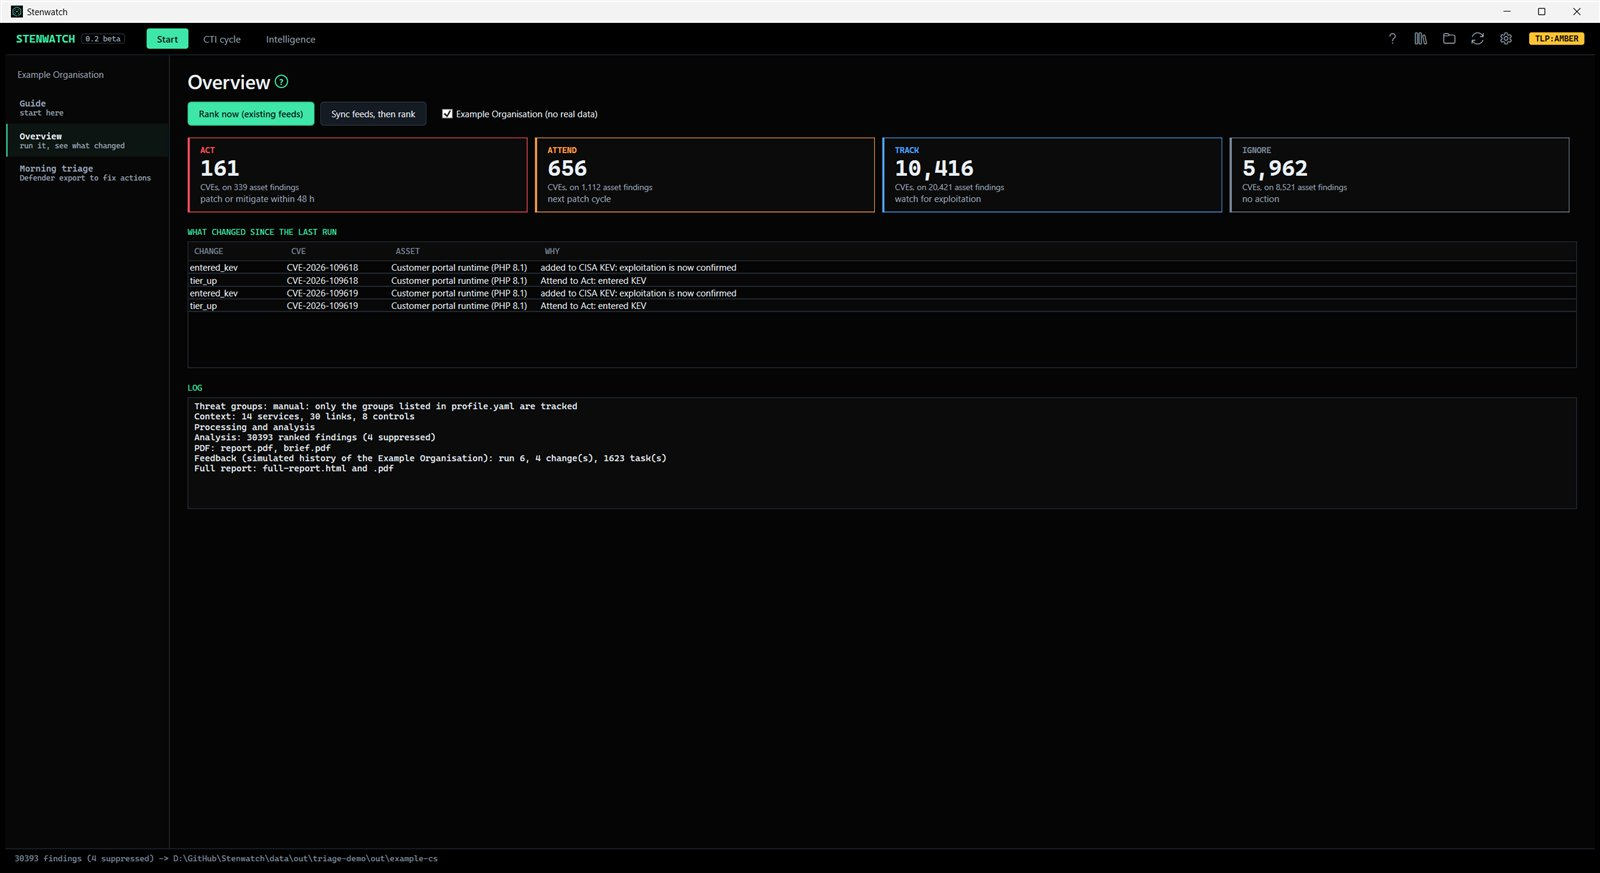
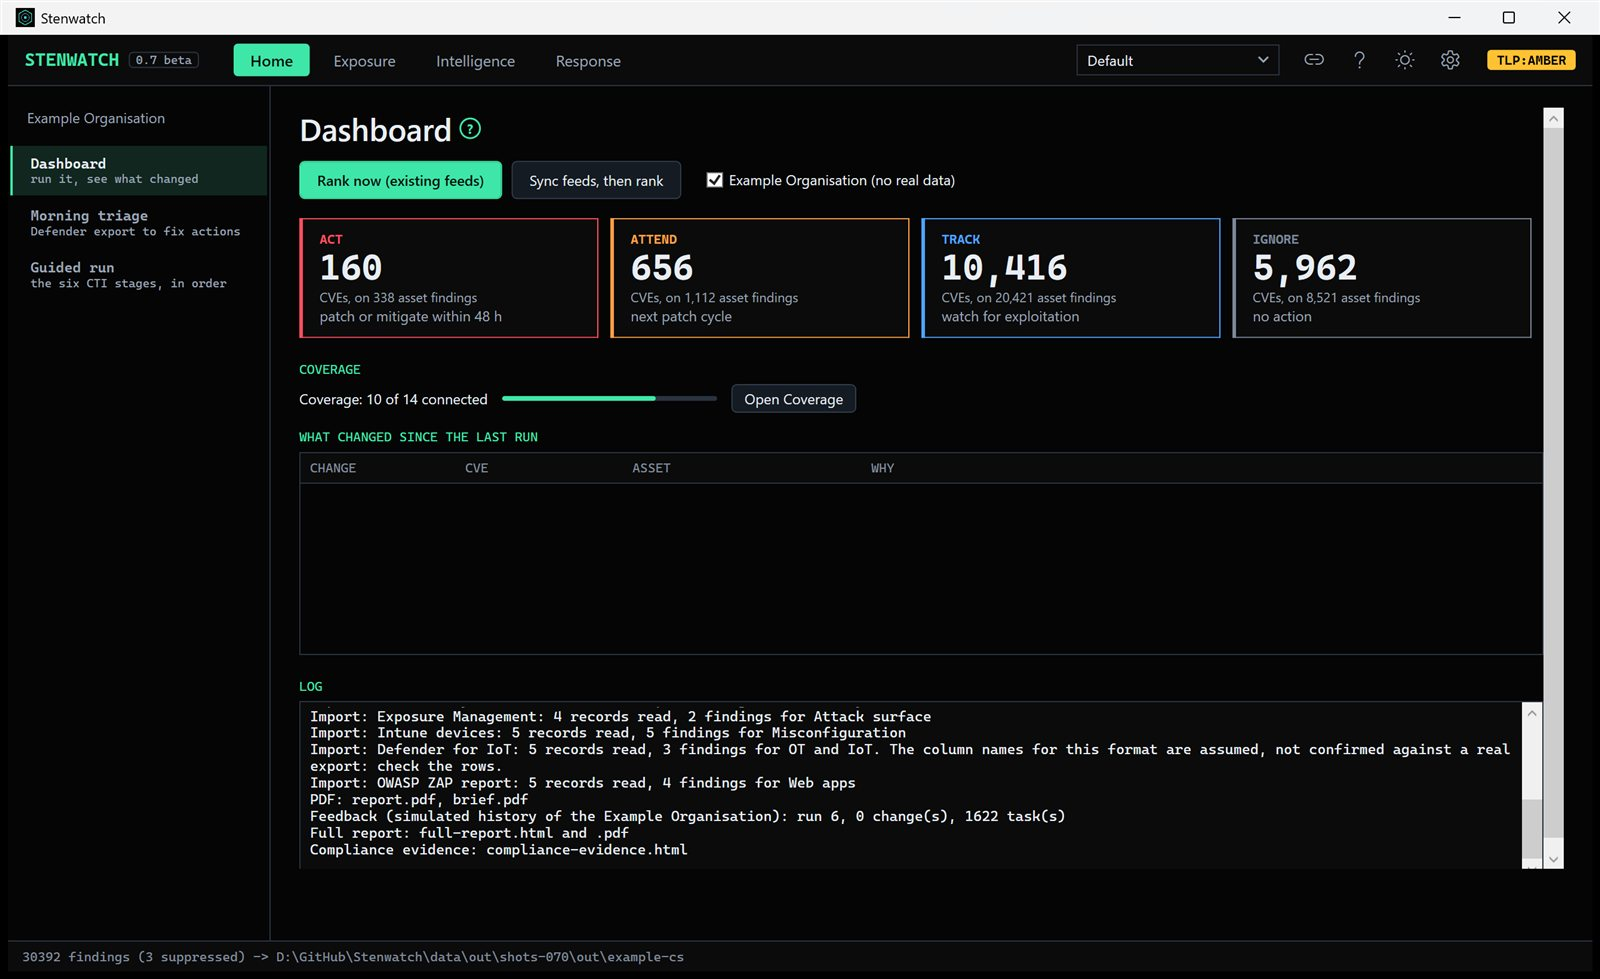
Release prep 0.7.0 beta: version bump, organisation box as a plain list with New organisation, installer signs when a certificate is set, screenshots retaken, README line for several organisations

diff --git a/src/Stenwatch.App/MainWindow.xaml b/src/Stenwatch.App/MainWindow.xaml
@@ -11,9 +11,11 @@
         <!-- toolbar: wordmark, the four areas, icon actions (Integrations, Guide, Theme, Settings), TLP -->
         <Border Grid.ColumnSpan="2" Background="{DynamicResource Card}" BorderBrush="{DynamicResource Line}" BorderThickness="0,0,0,1"><DockPanel Margin="14,6">
             <StackPanel Orientation="Horizontal" DockPanel.Dock="Right" VerticalAlignment="Center">
-                <!-- MSP mode: the open organisation; type a new name and press Enter to add one -->
-                <ComboBox x:Name="OrgPick" IsEditable="True" Width="170" Margin="0,0,10,0" VerticalAlignment="Center" SelectionChanged="OrgPicked" KeyDown="OrgKey"
-                          ToolTip="Organisation: pick one, or type a new name and press Enter. Each has its own data folder." AutomationProperties.Name="Organisation"/>
+                <!-- MSP mode: the open organisation; "New organisation..." shows OrgNew, type a name and press Enter -->
+                <TextBox x:Name="OrgNew" Width="150" Margin="0,0,6,0" VerticalAlignment="Center" Visibility="Collapsed" KeyDown="OrgKey"
+                         ToolTip="New organisation: type a name, Enter to open it, Esc to cancel" AutomationProperties.Name="New organisation name"/>
+                <ComboBox x:Name="OrgPick" Width="170" Margin="0,0,10,0" VerticalAlignment="Center" SelectionChanged="OrgPicked"
+                          ToolTip="Organisation: each has its own data folder" AutomationProperties.Name="Organisation"/>
                 <Button Style="{StaticResource IconButton}" Content="&#xE71B;" Click="GoIntegrations" ToolTip="Integrations" AutomationProperties.Name="Integrations"/>
                 <Button Style="{StaticResource IconButton}" Content="&#xE897;" Click="GoGuide" ToolTip="Guide (F1: about this page)" AutomationProperties.Name="Guide"/>
                 <Button x:Name="ThemeBtn" Style="{StaticResource IconButton}" Content="&#xE706;" Click="ThemeClick"/>
@@ -22,7 +24,7 @@
                 <Border Background="#ffc233" CornerRadius="3" Padding="8,2" Margin="12,0,0,0" VerticalAlignment="Center" ToolTip="Need-to-know only"><TextBlock Text="TLP:AMBER" Foreground="#000" FontFamily="{StaticResource Mono}" FontSize="11" FontWeight="Bold"/></Border></StackPanel>
             <StackPanel Orientation="Horizontal" VerticalAlignment="Center">
                 <TextBlock Text="STENWATCH" FontFamily="{StaticResource Mono}" FontWeight="Bold" FontSize="15" Foreground="{DynamicResource Accent}" VerticalAlignment="Center"/>
-                <Border BorderBrush="{DynamicResource Line}" BorderThickness="1" CornerRadius="3" Padding="5,0" Margin="8,0,28,0" VerticalAlignment="Center"><TextBlock Text="0.6 beta" FontFamily="{StaticResource Mono}" FontSize="10" Foreground="{DynamicResource Mute}"/></Border>
+                <Border BorderBrush="{DynamicResource Line}" BorderThickness="1" CornerRadius="3" Padding="5,0" Margin="8,0,28,0" VerticalAlignment="Center"><TextBlock Text="0.7 beta" FontFamily="{StaticResource Mono}" FontSize="10" Foreground="{DynamicResource Mute}"/></Border>
                 <RadioButton x:Name="Area0" Style="{StaticResource Segment}" Content="Home" Tag="0" Checked="AreaClick"/>
                 <RadioButton x:Name="Area1" Style="{StaticResource Segment}" Content="Exposure" Tag="1" Checked="AreaClick"/>
                 <RadioButton x:Name="Area2" Style="{StaticResource Segment}" Content="Intelligence" Tag="2" Checked="AreaClick"/>
@@ -64,7 +66,7 @@
 
             <!-- 0 Guide (toolbar icon) -->
             <TabItem Tag="Guide. How to start, how to read a finding, and what the labels mean. The toolbar has four areas: Home, Exposure, Intelligence and Response; the rail on the left shows the pages of the one you pick. The CTI lifecycle (Direction, Collection, Processing, Analysis, Dissemination, Feedback) runs through Threat profile, Feeds, Estate, Findings, Reports and Remediation: each of those shows at the bottom what it still needs, and the Next button turns green when it is done. Guided run takes the six stages in order."><ScrollViewer VerticalScrollBarVisibility="Auto"><StackPanel MaxWidth="980" HorizontalAlignment="Left">
-                <StackPanel Orientation="Horizontal" Margin="0,0,0,10"><TextBlock Text="Guide" FontSize="26" FontWeight="SemiBold"/><local:HelpButton Title="Guide" Text="Stenwatch 0.6.0 beta. A vulnerability management tool that explains which vulnerabilities matter to your organisation, with the evidence, and checks that the work actually gets done."/></StackPanel>
+                <StackPanel Orientation="Horizontal" Margin="0,0,0,10"><TextBlock Text="Guide" FontSize="26" FontWeight="SemiBold"/><local:HelpButton Title="Guide" Text="Stenwatch 0.7.0 beta. A vulnerability management tool that explains which vulnerabilities matter to your organisation, with the evidence, and checks that the work actually gets done."/></StackPanel>
 
                 <TextBlock Text="START HERE: FOUR STEPS" Style="{StaticResource H}"/>
                 <TextBlock TextWrapping="Wrap" LineHeight="22"><Run FontWeight="SemiBold" Text="1  Pick the data. "/><Run Foreground="{DynamicResource Mute}" Text="Dashboard has a tick box for the Example Organisation: fictional data with services, links and a control already filled in, so every page has something to show. Untick it to use your own profile.yaml and asset lists."/><LineBreak/>

diff --git a/docs/index.html b/docs/index.html
@@ -258,12 +258,12 @@ h1 .w{display:inline-block;opacity:0;translate:0 .5em;filter:blur(6px);animation
 <section><div class="wrap">
   <div class="rv idx mono"><span>06 — Run it</span></div>
   <h2 class="rv">Try it on a sample organisation</h2>
-  <div class="btns" style="margin:0 0 18px"><a class="btn go" href="https://apps.microsoft.com/detail/9PBKG30523KJ">Get it from the Microsoft Store</a> <a class="btn" href="https://github.com/idiljot-singh/Stenwatch/releases/tag/v0.2.0-beta">Or the installer (0.2.0 beta)</a></div>
+  <div class="btns" style="margin:0 0 18px"><a class="btn go" href="https://apps.microsoft.com/detail/9PBKG30523KJ">Get it from the Microsoft Store</a> <a class="btn" href="https://github.com/idiljot-singh/Stenwatch/releases/tag/v0.7.0-beta">Or the installer (0.7.0 beta)</a></div>
   <p style="max-width:680px">No admin rights needed, everything included. Stenwatch comes with a made-up example company, so you can see every page and a full report before adding any of your own details. Your own asset list can be an inventory export as it is.</p>
   <div class="rv tty">
     <div class="tty-top"><i></i><i></i><i></i></div>
 <pre><span class="d"># the app</span>
-<span class="p">1</span> install from the Microsoft Store                      <span class="d"># or Stenwatch-Setup-0.2.0-beta.exe (unsigned: More info -> Run anyway)</span>
+<span class="p">1</span> install from the Microsoft Store                      <span class="d"># or Stenwatch-Setup-0.7.0-beta.exe (unsigned: More info -> Run anyway)</span>
 <span class="p">2</span> Dashboard -> tick "Example Organisation" -> Rank now  <span class="d"># fictional data, every page filled</span>
 <span class="p">3</span> Threat profile -> import your profile and asset list <span class="d"># then follow the Guided run</span>
 

diff --git a/docs/video.html b/docs/video.html
@@ -14,4 +14,4 @@ h1{font-size:22px;margin:0 0 6px;letter-spacing:.04em}h2{font-size:18px;margin:3
 <video controls preload="metadata" poster="img/poster-demo.jpg" src="stenwatch-demo.mp4" playsinline></video>
 <h2>Threat intelligence, not a scanner</h2><p>What makes it different, how advisories meet your Defender export, and what it could change. 1 min 38 s.</p>
 <video controls preload="metadata" poster="img/poster-cti.jpg" src="stenwatch-cti.mp4" playsinline></video>
-<p style="margin-top:30px">Threat-informed CVE prioritisation. <a href="https://apps.microsoft.com/detail/9PBKG30523KJ">Get it from the Microsoft Store</a> &middot; <a href="https://github.com/idiljot-singh/Stenwatch/releases/tag/v0.2.0-beta">Installer (beta)</a> &middot; <a href="https://github.com/idiljot-singh/Stenwatch">Source</a></p></main></body></html>
+<p style="margin-top:30px">Threat-informed CVE prioritisation. <a href="https://apps.microsoft.com/detail/9PBKG30523KJ">Get it from the Microsoft Store</a> &middot; <a href="https://github.com/idiljot-singh/Stenwatch/releases/tag/v0.7.0-beta">Installer (beta)</a> &middot; <a href="https://github.com/idiljot-singh/Stenwatch">Source</a></p></main></body></html>

diff --git a/src/Stenwatch.App/MainWindow.xaml.cs b/src/Stenwatch.App/MainWindow.xaml.cs
@@ -104,20 +104,26 @@ public partial class MainWindow : Window
     void ExampleToggled(object s, RoutedEventArgs e) { if (!loading) { last = null; Configure(); } }
 
     // ---- MSP mode: organisation switcher in the toolbar ------------------------------------------------------------------------
-    const string DefaultOrg = "Default";
+    const string DefaultOrg = "Default", NewOrg = "New organisation...";
     void FillOrgs()
     {
         var was = loading; loading = true;
-        OrgPick.ItemsSource = AppPaths.Orgs().Prepend(DefaultOrg).ToList();
+        OrgPick.ItemsSource = AppPaths.Orgs().Prepend(DefaultOrg).Append(NewOrg).ToList();
         OrgPick.SelectedItem = AppPaths.Org() is { Length: > 0 } o ? o : DefaultOrg;
         loading = was;
     }
-    void OrgPicked(object s, SelectionChangedEventArgs e) { if (!loading && OrgPick.SelectedItem is string o) OpenOrg(o); }
+    void OrgPicked(object s, SelectionChangedEventArgs e)
+    {
+        if (loading || OrgPick.SelectedItem is not string o) return;
+        if (o == NewOrg) { OrgNew.Visibility = Visibility.Visible; OrgNew.Focus(); Dispatcher.BeginInvoke(FillOrgs); } // back to the open one until a name is entered
+        else OpenOrg(o);
+    }
     void OrgKey(object s, System.Windows.Input.KeyEventArgs e)
     {
+        if (e.Key == System.Windows.Input.Key.Escape) { OrgNew.Clear(); OrgNew.Visibility = Visibility.Collapsed; return; }
         if (e.Key != System.Windows.Input.Key.Enter) return;
-        var o = OrgPick.Text.Trim();
-        if (o == DefaultOrg || AppPaths.ValidOrg(o)) OpenOrg(o);
+        var o = OrgNew.Text.Trim();
+        if (o != DefaultOrg && o != NewOrg && AppPaths.ValidOrg(o)) OpenOrg(o);
         else Status("Organisation name: letters, digits, space, dot, dash or underscore, up to 63 characters");
     }
     /// <summary>Open another organisation in a fresh window, so nothing of this one's (triage, findings, picks) carries over.</summary>

diff --git a/README.md b/README.md
@@ -11,7 +11,7 @@ From every CVE in the world to the few that matter to *your* organisation, with 
 ![STIX 2.1](https://img.shields.io/badge/STIX-2.1-5aa9ff?labelColor=0a101b)
 ![MITRE ATT&CK](https://img.shields.io/badge/MITRE-ATT%26CK-ff4d5e?labelColor=0a101b)
 
-**[Get it from the Microsoft Store →](https://apps.microsoft.com/detail/9PBKG30523KJ)** · **[Installer (0.2.0 beta) →](https://github.com/idiljot-singh/Stenwatch/releases/tag/v0.2.0-beta)** · **[Live page and films →](https://idiljot-singh.github.io/Stenwatch/)**
+**[Get it from the Microsoft Store →](https://apps.microsoft.com/detail/9PBKG30523KJ)** · **[Installer (0.7.0 beta) →](https://github.com/idiljot-singh/Stenwatch/releases/tag/v0.7.0-beta)** · **[Live page and films →](https://idiljot-singh.github.io/Stenwatch/)**
 
 </div>
 
@@ -52,7 +52,7 @@ An optional LLM (OpenRouter's free model, or a model on your own machine) reads 
 ## Install
 
 1. Get it from the [Microsoft Store](https://apps.microsoft.com/detail/9PBKG30523KJ). It is signed by Microsoft, installs without admin rights and updates itself. .NET is included.
-2. Or download `Stenwatch-Setup-0.2.0-beta.exe` from the [release page](https://github.com/idiljot-singh/Stenwatch/releases/tag/v0.2.0-beta). That installer is unsigned, so Windows shows a blue "unknown publisher" screen: choose **More info → Run anyway**, or ask IT to allow-list the file by its SHA-256 (in the release notes).
+2. Or download `Stenwatch-Setup-0.7.0-beta.exe` from the [release page](https://github.com/idiljot-singh/Stenwatch/releases/tag/v0.7.0-beta). That installer is unsigned, so Windows shows a blue "unknown publisher" screen: choose **More info → Run anyway**, or ask IT to allow-list the file by its SHA-256 (in the release notes).
 3. The toolbar has four areas: **Home** (Dashboard, Morning triage, Guided run), **Exposure** (Findings, Estate, Attack paths, Coverage), **Intelligence** (Threat profile, Feeds, Advisories, Knowledge graph) and **Response** (Remediation, Tickets, Reports, Effectiveness). Integrations, the Guide, the theme switch and Settings are icons at the right of the toolbar. Tick **Example Organisation** on the Dashboard to try every page with fictional data, or open Morning triage with your Defender export. Every **?** explains the thing next to it.
 
 Your files live in `%APPDATA%\Stenwatch` and survive updates. The Store updates the app for you; with the Setup installer use **Check for updates** in Settings, or run the newer Setup over the old one.
@@ -95,6 +95,7 @@ Either Stenwatch's own format (`name,cpe,version,criticality,internet_facing`, s
 | **Defend** | Every finding lists MITRE D3FEND countermeasures and ATT&CK mitigations |
 | **Suppliers** | Third-party CVEs weighted by data access and privileged access |
 | **Outputs for each audience** | Full report, findings report, brief, dashboard, CSV, STIX 2.1 for MISP, OpenCTI or Sentinel, ATT&CK Navigator layer |
+| **Several organisations** | For a service provider: an organisation switcher in the toolbar, each organisation in its own data folder with its own scheduled morning run |
 | **Private by design** | Runs on your machine; only public feeds are downloaded; secrets in Windows Credential Manager; outputs marked TLP:AMBER |
 
 ## Stenwatch and Microsoft Defender Vulnerability Management

diff --git a/installer/README.md b/installer/README.md
@@ -1,10 +1,10 @@
-# installer/
+# installer/
 
 Windows installers (Inno Setup 6, per-user, no admin rights). Build outputs go to `Output/` (git-ignored).
 
 | File | What |
 |---|---|
-| `stenwatch-cs.iss` | Installer for the 0.2.0 beta desktop app. Self-contained: the .NET runtime is included. |
+| `stenwatch-cs.iss` | Installer for the 0.7.0 beta desktop app. Self-contained: the .NET runtime is included. |
 | `build-cs.bat` | Runs the tests, publishes the app and CLI, and builds the installer: `installer\build-cs.bat`. Needs the .NET 8 SDK and Inno Setup 6. |
 | `build-msix.ps1`, `msix/` | Microsoft Store package (MSIX, unsigned: the Store signs it). Takes the three identity values from Partner Center > Product identity. Needs the Windows SDK. From the Store, data lives in the package's own folder (`%LOCALAPPDATA%\Packages\<package>\LocalState\Stenwatch`) and updates come through the Store. |
 | `readme-before.txt` | The "what to expect" page shown by the C# installer. |
